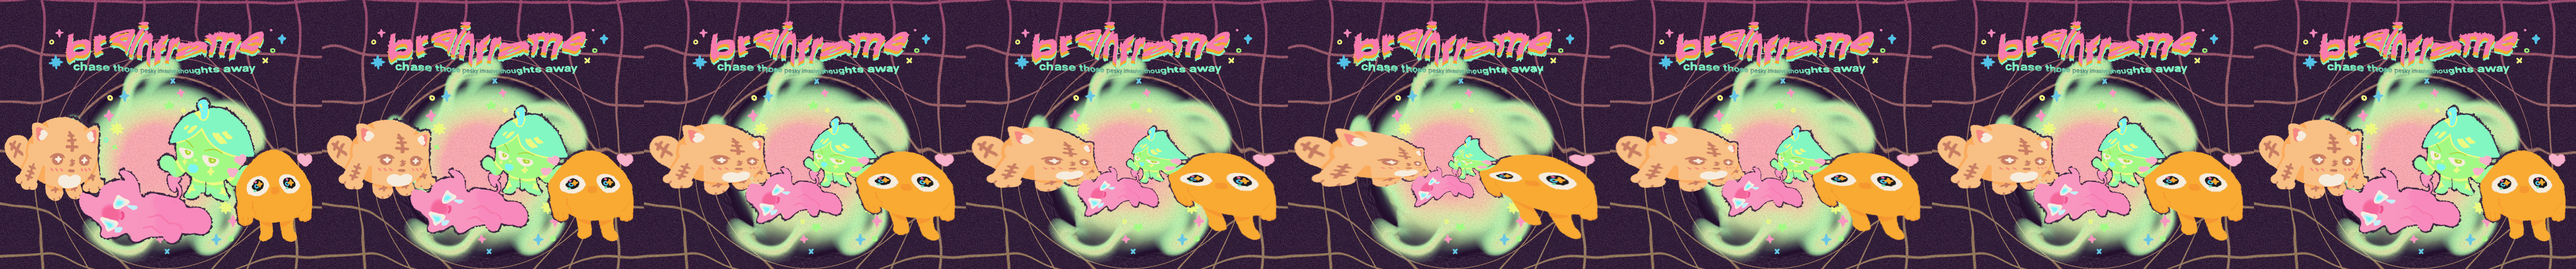
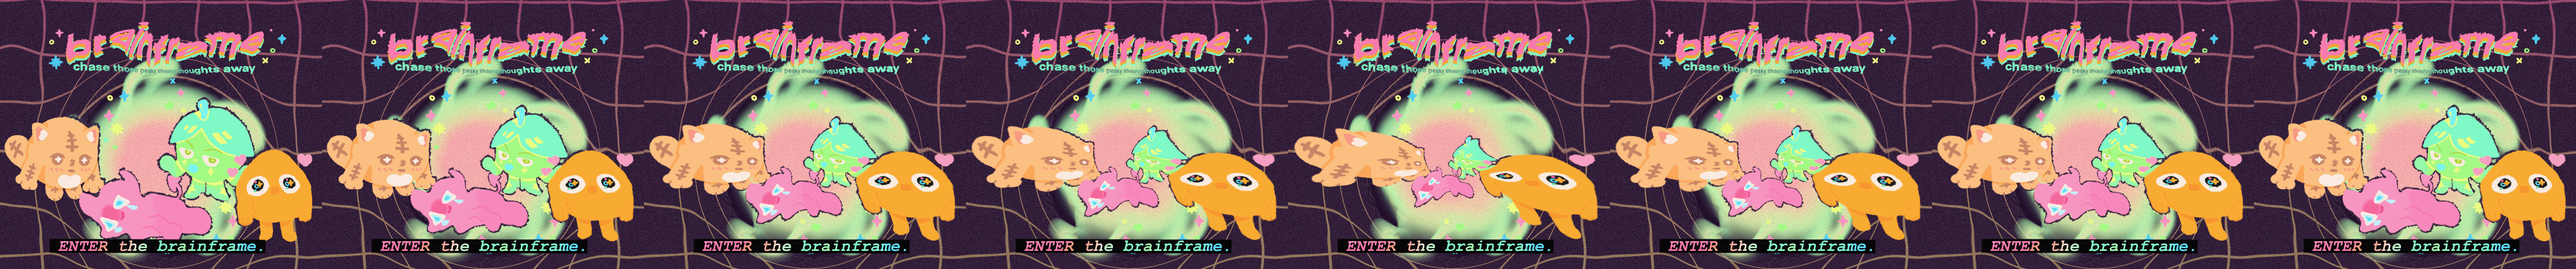
added difficulty as new scene

Changed region(s): [[0.0, 0.8693, 0.9967, 0.9625]]

diff --git a/src/scenes/Difficulty.js b/src/scenes/Difficulty.js
@@ -1,0 +1,63 @@
+class Difficulty extends Phaser.Scene {
+    constructor() {
+        super("diffScene");
+    }
+
+    preload(){
+        // load audio
+        this.load.audio('sfx_select', 'assets/select.wav');
+        this.load.audio('sfx_explosion', 'assets/spaceship_exploding.wav');
+        this.load.audio('sfx_rocket', 'assets/rocket_firing.wav');
+        // load spritesheet 
+        // TOOL: https://ezgif.com/gif-to-sprite
+        this.load.spritesheet('diff', './assets/choose_difficulty_sheet.png', {
+            frameWidth: 923, 
+            frameHeight: 773
+          });
+    }
+
+    create() {
+        var config = {
+            key: "diffAnimation",
+            frames: this.anims.generateFrameNumbers("diff", {
+              start: 0,
+              end: 2,
+              first: 0
+            }),
+            frameRate: 6,
+            repeat: -1
+          };
+  
+          this.anims.create(config);
+          var bg = this.add.sprite(0, 0, "diff").play("diffAnimation");
+          bg.setOrigin(0,0);
+  
+          // define keys
+          keyLEFT = this.input.keyboard.addKey(Phaser.Input.Keyboard.KeyCodes.LEFT);
+          keyRIGHT = this.input.keyboard.addKey(Phaser.Input.Keyboard.KeyCodes.RIGHT);
+          keyENTER = this.input.keyboard.addKey(Phaser.Input.Keyboard.KeyCodes.ENTER);
+
+    }
+
+    update() {
+        // switched difficulty arrows bc of design
+        if (Phaser.Input.Keyboard.JustDown(keyRIGHT)) {
+        // EXPERT MODE <-
+            game.settings = {
+              spaceshipSpeed: 3,
+              gameTimer: 60000
+            }
+            this.sound.play('sfx_select');
+            this.scene.start('playScene');    
+        }
+        // N00B MODE ->
+        if (Phaser.Input.Keyboard.JustDown(keyRIGHT)) {
+            game.settings = {
+              spaceshipSpeed: 4,
+              gameTimer: 45000    
+            }
+            this.sound.play('sfx_select');
+            this.scene.start('playScene');
+        }
+    }
+}

diff --git a/src/scenes/Menu.js b/src/scenes/Menu.js
@@ -37,26 +37,31 @@ class Menu extends Phaser.Scene {
         // define keys
         keyLEFT = this.input.keyboard.addKey(Phaser.Input.Keyboard.KeyCodes.LEFT);
         keyRIGHT = this.input.keyboard.addKey(Phaser.Input.Keyboard.KeyCodes.RIGHT);
+        keyENTER = this.input.keyboard.addKey(Phaser.Input.Keyboard.KeyCodes.ENTER);
       }
 
     update() {
-        if (Phaser.Input.Keyboard.JustDown(keyLEFT)) {
-          // easy mode
-          game.settings = {
-            spaceshipSpeed: 3,
-            gameTimer: 60000    
-          }
+        // if (Phaser.Input.Keyboard.JustDown(keyLEFT)) {
+        //   // easy mode
+        //   game.settings = {
+        //     spaceshipSpeed: 3,
+        //     gameTimer: 60000    
+        //   }
+        //   this.sound.play('sfx_select');
+        //   this.scene.start('playScene');     
+        // }
+        // if (Phaser.Input.Keyboard.JustDown(keyRIGHT)) {
+        //   // hard mode
+        //   game.settings = {
+        //     spaceshipSpeed: 4,
+        //     gameTimer: 45000    
+        //   }
+        //   this.sound.play('sfx_select');
+        //   this.scene.start('playScene');
+        // }
+        if (Phaser.Input.Keyboard.JustDown(keyENTER)){
           this.sound.play('sfx_select');
-          this.scene.start('playScene');    
+          this.scene.start('diffScene');
         }
-        if (Phaser.Input.Keyboard.JustDown(keyRIGHT)) {
-          // hard mode
-          game.settings = {
-            spaceshipSpeed: 4,
-            gameTimer: 45000    
-          }
-          this.sound.play('sfx_select');
-          this.scene.start('playScene');    
-        }
-    }
+      }
 }

diff --git a/src/scenes/Play.js b/src/scenes/Play.js
@@ -6,14 +6,14 @@ class Play extends Phaser.Scene {
         // load images/tile sprites
         this.load.image('rocket', './assets/rocket.png');
         this.load.image('spaceship', './assets/spaceship.png');
-        this.load.image('starfield', './assets/bg.png');
+        this.load.image('bg', './assets/bg.png');
         // load spritesheet
         this.load.spritesheet('explosion', './assets/explosion.png', {frameWidth: 64, frameHeight: 32, startFrame: 0, endFrame: 9});
     }
 
     create() {
         // place tile sprite (rendered first)
-        this.starfield = this.add.tileSprite(0, 0, 923, 773, 'starfield').setOrigin(0, 0);
+        this.bg = this.add.tileSprite(0, 0, 923, 773, 'bg').setOrigin(0, 0);
         // green UI background
         this.add.rectangle(0, borderUISize + borderPadding, game.config.width, borderUISize * 2, 0x00FF00).setOrigin(0, 0);
         // white borders
@@ -73,7 +73,7 @@ class Play extends Phaser.Scene {
         if (this.gameOver && Phaser.Input.Keyboard.JustDown(keyLEFT)) {
             this.scene.start("menuScene");
         }
-        this.starfield.tilePositionX -= 4; // makes bg move or "scroll"
+        this.bg.tilePositionX -= 4; // makes bg move or "scroll"
         if (!this.gameOver) {               
             this.p1Rocket.update();         // update rocket sprite
             this.ship01.update();           // update spaceships (x3)

diff --git a/index.html b/index.html
@@ -2,7 +2,7 @@
 <html lang="en">
   <head>
     <meta charset="UTF-8" />
-    <title>✦brainstorm✦</title>
+    <title>✦bra1nfram3✦</title>
     <link rel="shortcut icon" type="image/jpg" href="assets/favicon.png"/>
     <script src="//cdn.jsdelivr.net/npm/phaser@3.11.0/dist/phaser.js"></script>
     <style type="text/css">
@@ -17,6 +17,7 @@
     <script src = "./src/prefabs/Rocket.js"></script>
     <script src = "./src/prefabs/Spaceship.js"></script>
     <script src = "./src/scenes/Menu.js"></script>
+    <script src = "./src/scenes/Difficulty.js"></script>
     <script src = "./src/scenes/Play.js"></script>
     <script src = "./src/main.js"></script>
   </body>

diff --git a/src/main.js b/src/main.js
@@ -2,12 +2,12 @@ let config = {
     type: Phaser.CANVAS,
     width: 923,
     height: 773,
-    scene: [ Menu, Play ]
+    scene: [ Menu, Difficulty, Play ] // AAAHHH i forgot to add new scenes here
 }
   
 let game = new Phaser.Game(config);
 // reserve keyboard vars
-let keyF, keyR, keyLEFT, keyRIGHT;
+let keyF, keyR, keyLEFT, keyRIGHT, keyENTER;
 // set UI sizes
 let borderUISize = game.config.height / 15;
 let borderPadding = borderUISize / 3;
